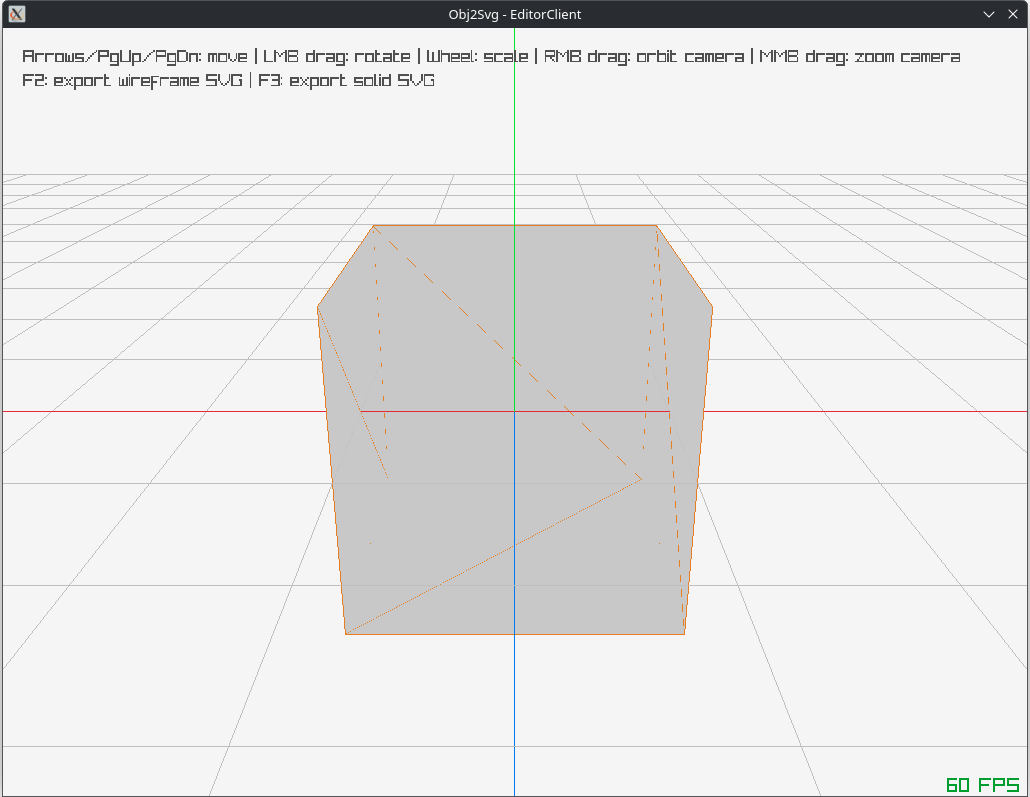
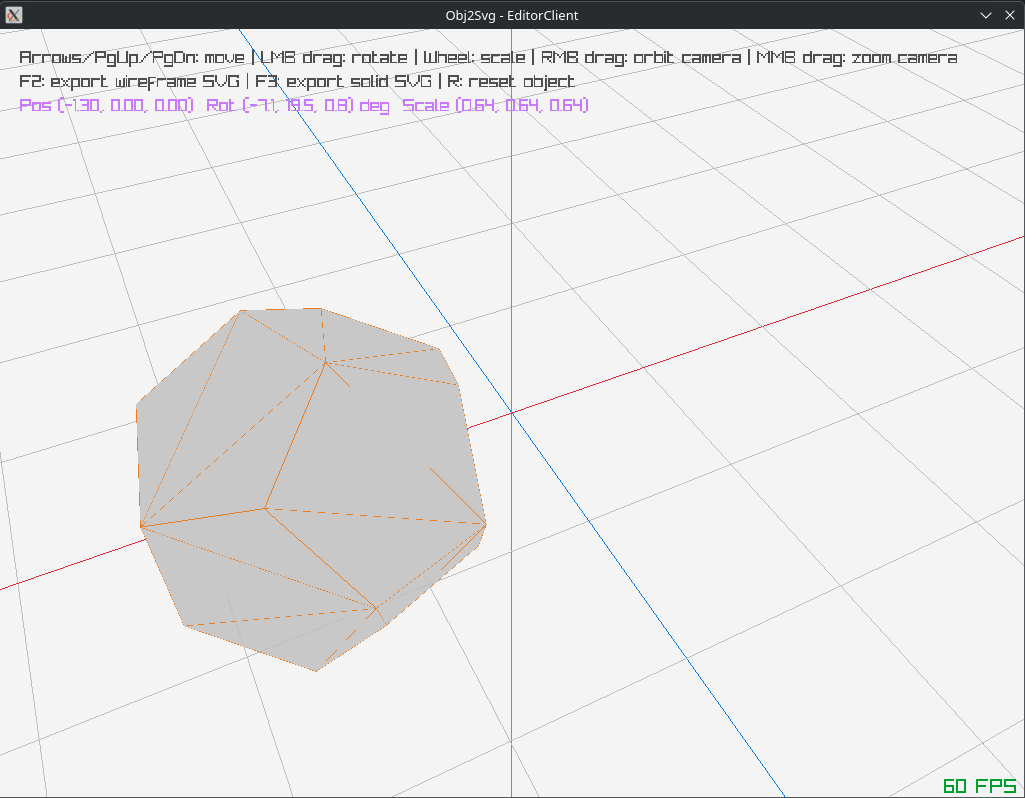
Simple corrections.

diff --git a/Obj2Svg/client/src/main.cpp b/Obj2Svg/client/src/main.cpp
@@ -186,8 +186,10 @@ int main(int argc, char *argv[]) {
           DrawText("Arrows/PgUp/PgDn: move | LMB drag: rotate | Wheel: scale | "
                    "RMB drag: orbit camera | MMB drag: zoom camera",
                    20, 20, 18, DARKGRAY);
-          DrawText("F2: export wireframe SVG | F3: export solid SVG", 20, 44,
-                   18, DARKGRAY);
+          DrawText("F2: export wireframe SVG | F3: export solid SVG | R: reset "
+                   "object",
+                   20, 44, 18, DARKGRAY);
+          DrawText(mesh_view.transform_hud_text().c_str(), 20, 68, 18, PURPLE);
           if (export_notification.active()) {
             DrawText(export_notification.message.c_str(), 20,
                      kScreenHeight - 32, 24, export_notification.color);

diff --git a/README.md b/README.md
@@ -2,6 +2,8 @@
 
 OBJ file visualization and SVG export tool using C++ and Raylib.
 
+See more: https://en.wikipedia.org/wiki/Wavefront_.obj_file
+
 ## Detail
 
 Obj2Svg handles exclusively the **OBJ** file format.
@@ -38,9 +40,10 @@ cmake --build build
 
 ```
 Obj2Svg/
-├── core/    # Engine library (geometry + I/O)
-├── api/     # extern "C" boundary
-└── client/  # Raylib visualization/interaction layer
+├── core/      # Engine library (geometry + I/O)
+├── api/       # Extern "C" boundary
+├── client/    # Raylib visualization/interaction layer
+└── resources/ # OBJ files for samples
 ```
 
 ## Display
